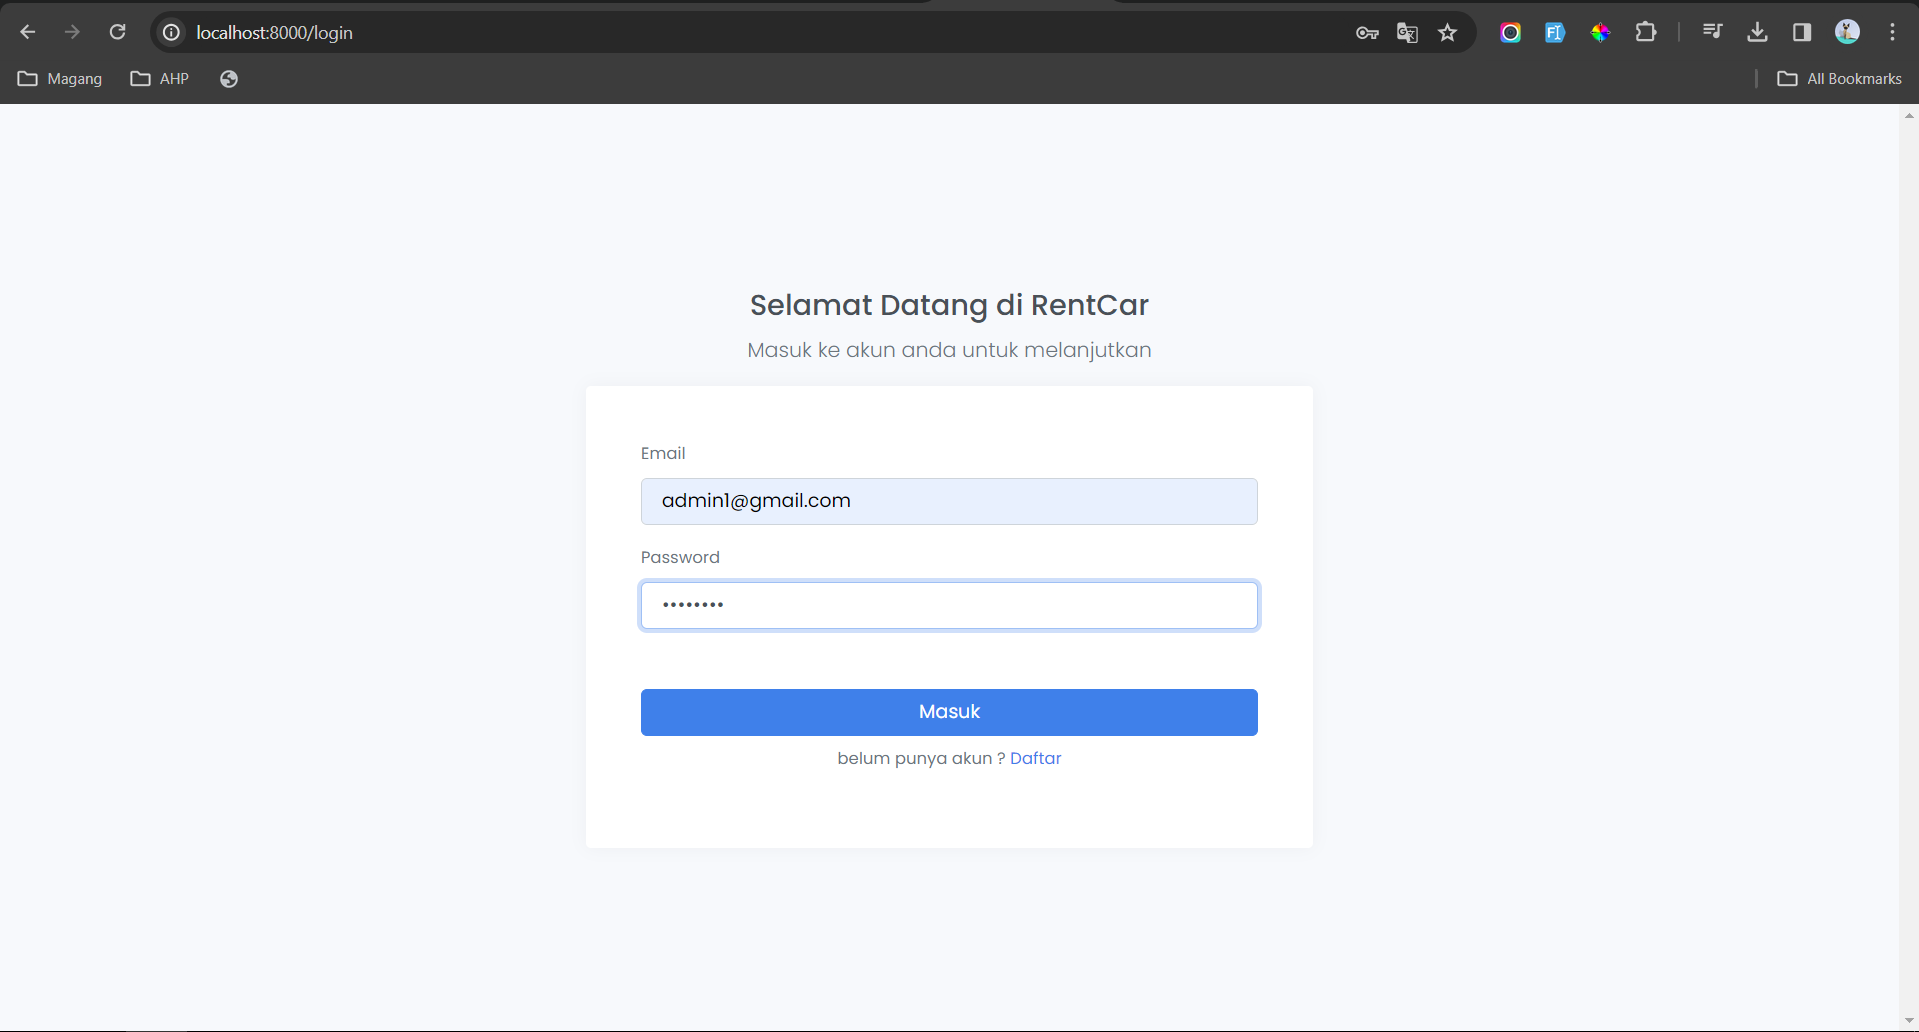
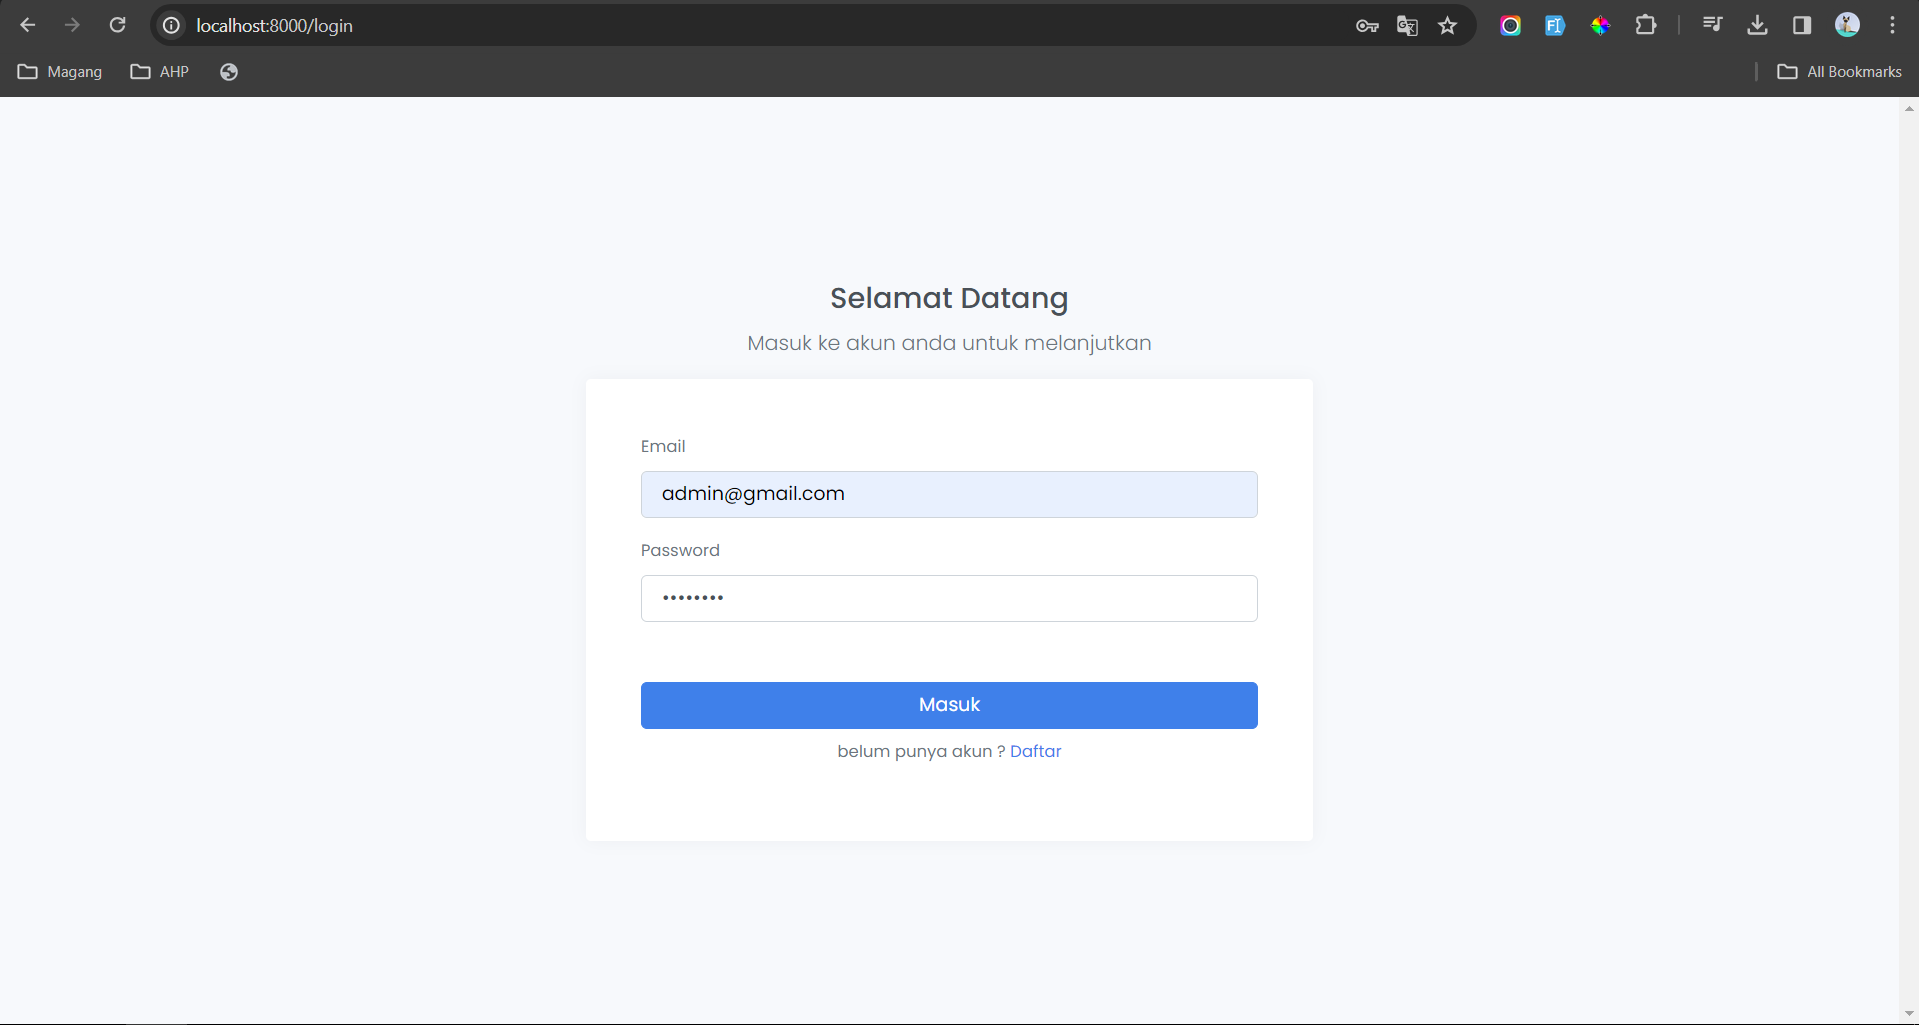
new photo and login register

diff --git a/resources/views/auth/login.blade.php b/resources/views/auth/login.blade.php
@@ -61,7 +61,7 @@
                     <div class="d-table-cell align-middle">
 
                         <div class="text-center mt-4">
-                            <h1 class="h2">Selamat Datang di RentCar</h1>
+                            <h1 class="h2">Selamat Datang</h1>
                             <p class="lead">
                                 Masuk ke akun anda untuk melanjutkan
                             </p>

diff --git a/resources/views/auth/register.blade.php b/resources/views/auth/register.blade.php
@@ -61,7 +61,7 @@
                     <div class="d-table-cell align-middle">
 
                         <div class="text-center mt-4">
-                            <h1 class="h2">Selamat Datang di RentCar</h1>
+                            <h1 class="h2">Selamat Datang</h1>
                             <p class="lead">
                                 Daftar akun baru
                             </p>
